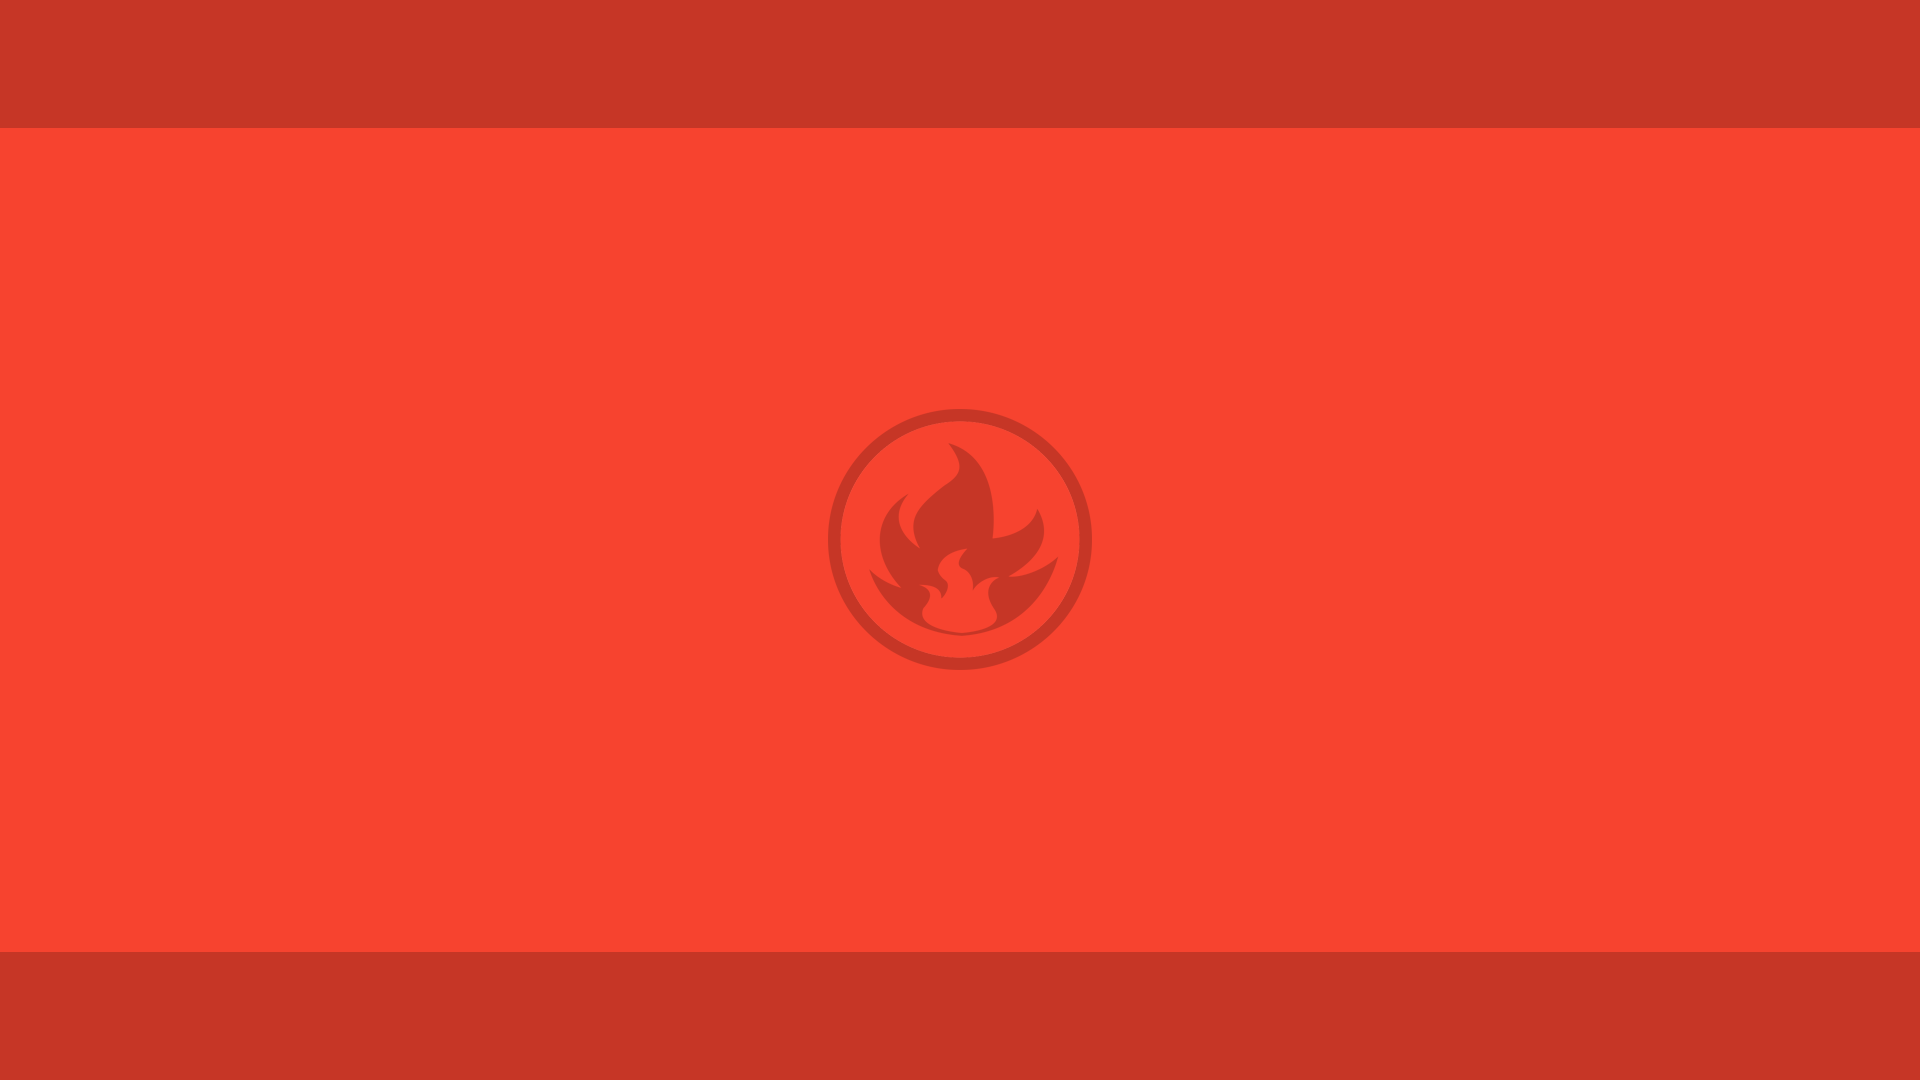
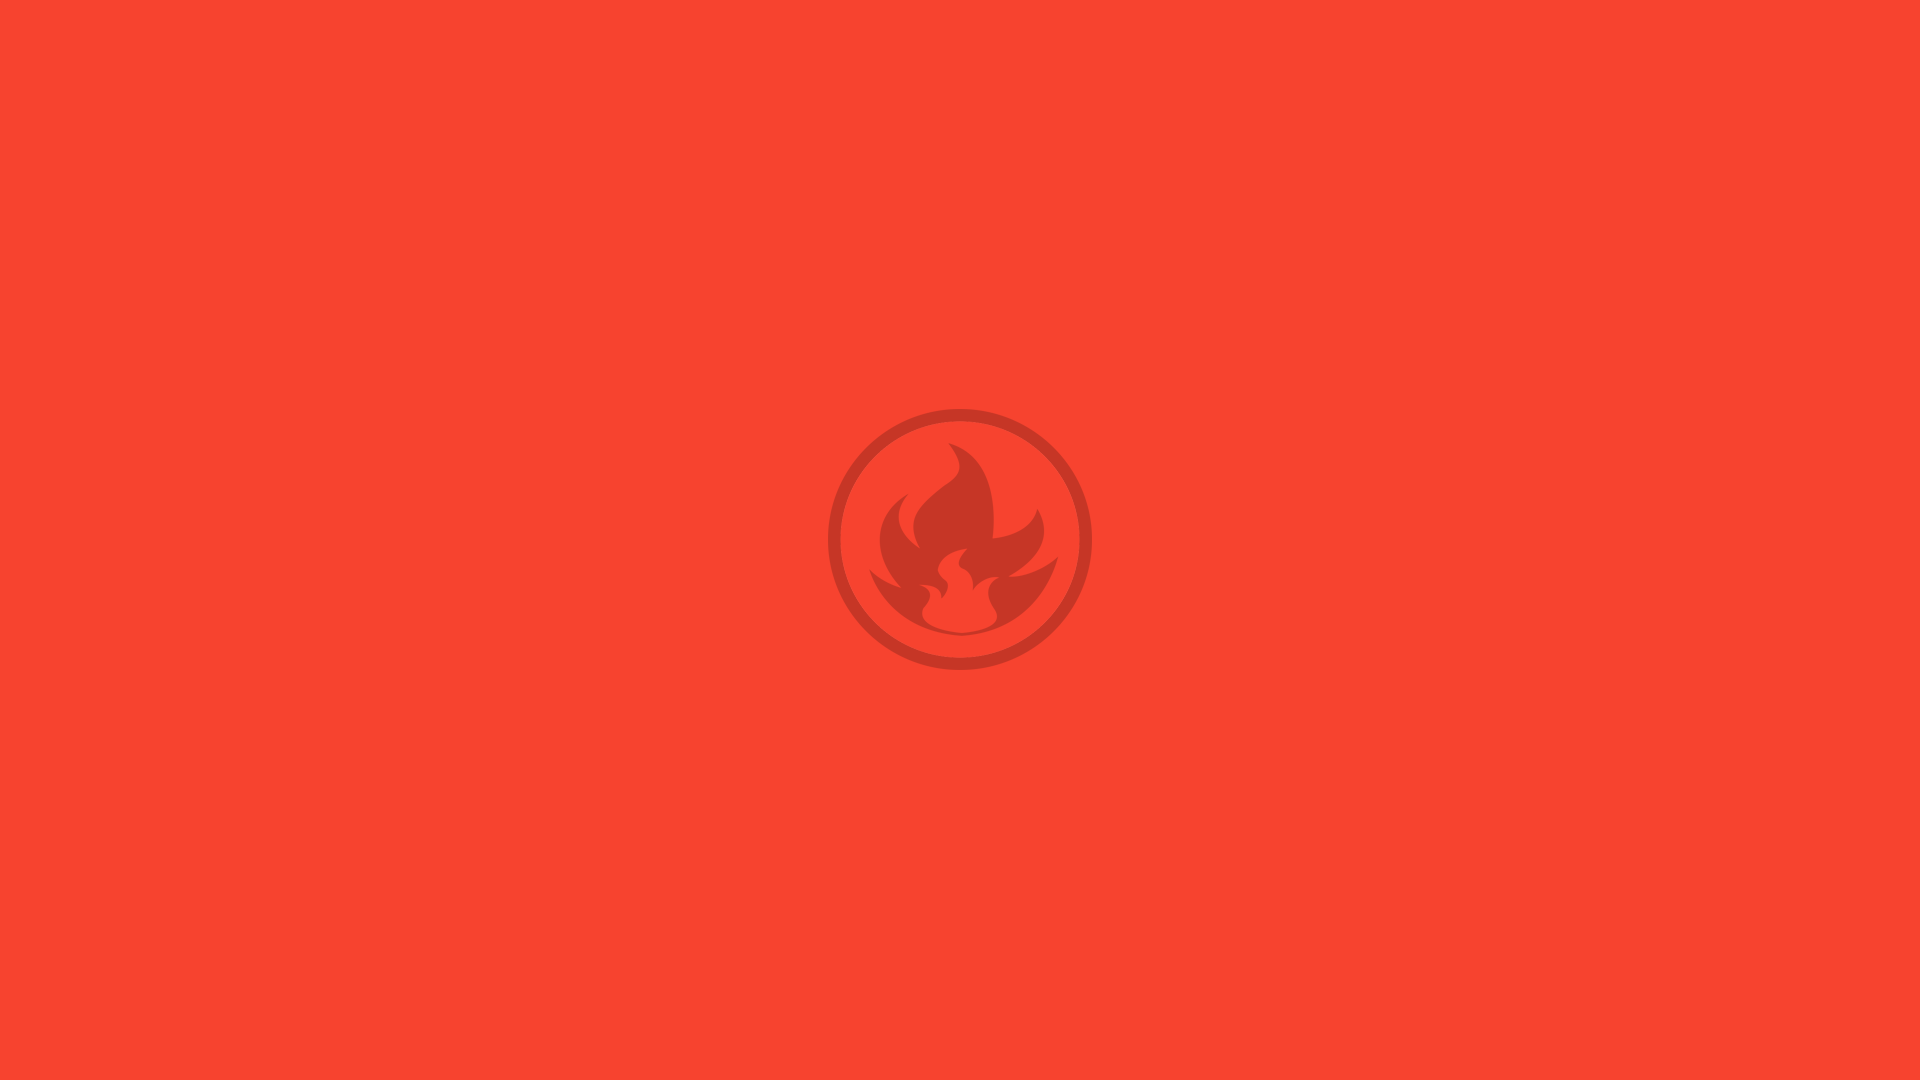
First

Changed region(s): [[0.0, 0.8556, 1.0, 1.0], [0.0, 0.0, 1.0, 0.1222]]

diff --git a/src/Home.tsx b/src/Home.tsx
@@ -170,6 +170,7 @@ const Home = () => {
         marginTop:'2%',
         filter: 'drop-shadow(5px 5px 5px black)',
         width:'21rem',
+        
     };
     //Gotta Fetch Em All Style
     const gottaFetchEmAllStyle: React.CSSProperties ={
@@ -178,7 +179,7 @@ const Home = () => {
         // textShadow:'3px 3px 1px black',
         textShadow:'.1rem .1rem 0 blue',
         userSelect:'none',
-        marginTop:'.5%',
+        marginTop:'',
         filter: 'drop-shadow(2px 2px 5px black)'
     }
     //Welcome Text Style
@@ -493,10 +494,12 @@ const Home = () => {
         fetchPoke();
             if(showCard === true){
                 setShowEvo(true)
+                
             } 
         }
         else{
             setShowCard(false)
+            setBackgroundColor('')
             setShowEvo(false)
             setBackgroundImg(PokemonBackGroundGif)
         }
@@ -796,14 +799,16 @@ const Home = () => {
 return(
     // Background Image/Main Container
     <div style={{backgroundImage: `url(${backgroundImg})`, height:'auto',minHeight:'100vh',maxHeight: 'auto', backgroundRepeat:'',backgroundPosition: 'center', backgroundSize: 'cover'}}>
-        <div style={{display: 'flex', flexDirection:'column', justifyContent:'center'}}>
+        <div style={{display: 'flex', flexDirection:'column', justifyContent:'center',backgroundColor: backgroundColor}}>
             {/* Pokemon Logo */}                       
-            <div>
+            <div style={{}}>
                 <img  draggable="false" style={pokemonLogoImg} alt="Pokemon Logo" src= {PokeLogo}/>
             </div>
         </div>
         {/* Gotta Fetch Em All Text */}
+        <div style={{backgroundColor: backgroundColor}}>
         <p style={gottaFetchEmAllStyle}>Gotta fetch( ) 'em all!</p>
+        </div>
         <div>
             {/* Input Field */}
             <InputGroup>
@@ -831,7 +836,7 @@ return(
                 {/* Card Container */}
                 {showCard === true ? 
                 // <Draggable>
-                <div style={{transform: 'translate(0px, 0px)'}}>
+                <div style={{transform: 'translate(0px, 0px)', marginBottom:'7%'}}>
                         {/* Card Img */}
                      
                             <img   draggable="false" style={pokemonCardStyle} alt='Pokemon Card' src ={pokeCardImg}/>
@@ -1153,8 +1158,8 @@ return(
         : null
         }
           {/* Audio Player */}
-        <div>
-            <ReactAudioPlayer style = {{filter: 'drop-shadow(5px 5px 5px black)',marginTop:'3rem', marginBottom:'1vh', background:'transparent', outline:'none'} }src={audioUrl} autoPlay loop controls  />
+        <div style= {{backgroundColor: backgroundColor, paddingBottom:'7vh',paddingTop:'1vh'}}>
+            <ReactAudioPlayer style = {{filter: 'drop-shadow(5px 5px 5px black)',marginTop:'1vw',paddingTop:'', marginBottom:'', background:'transparent', outline:'none'} }src={audioUrl} autoPlay loop controls  />
         </div>
     </div>
 )
